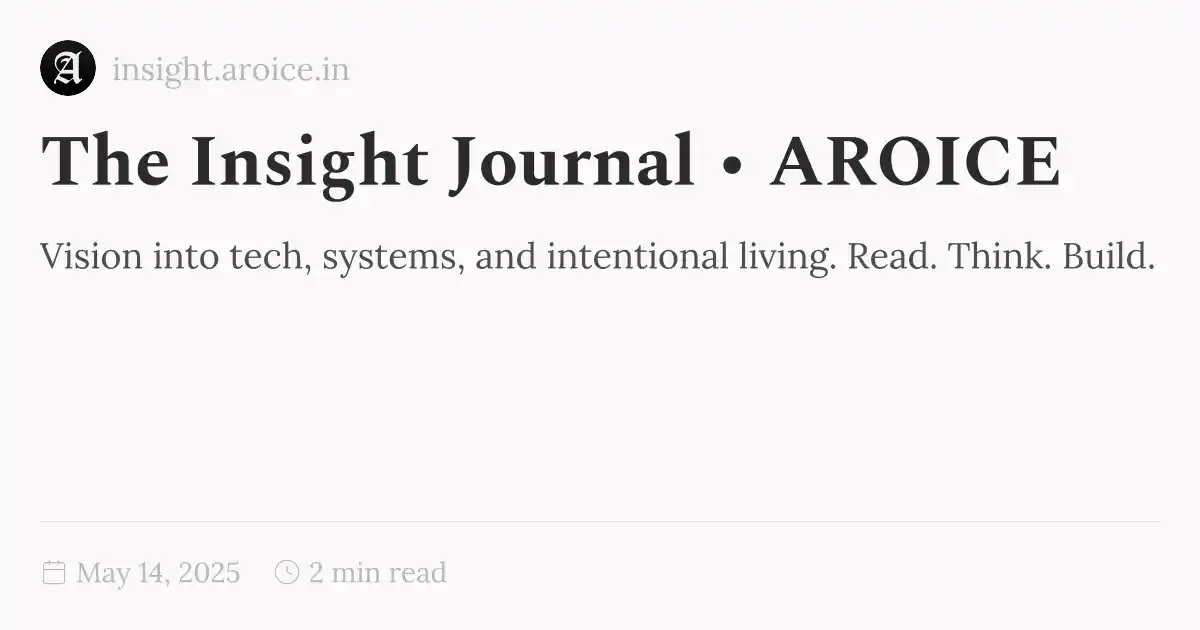
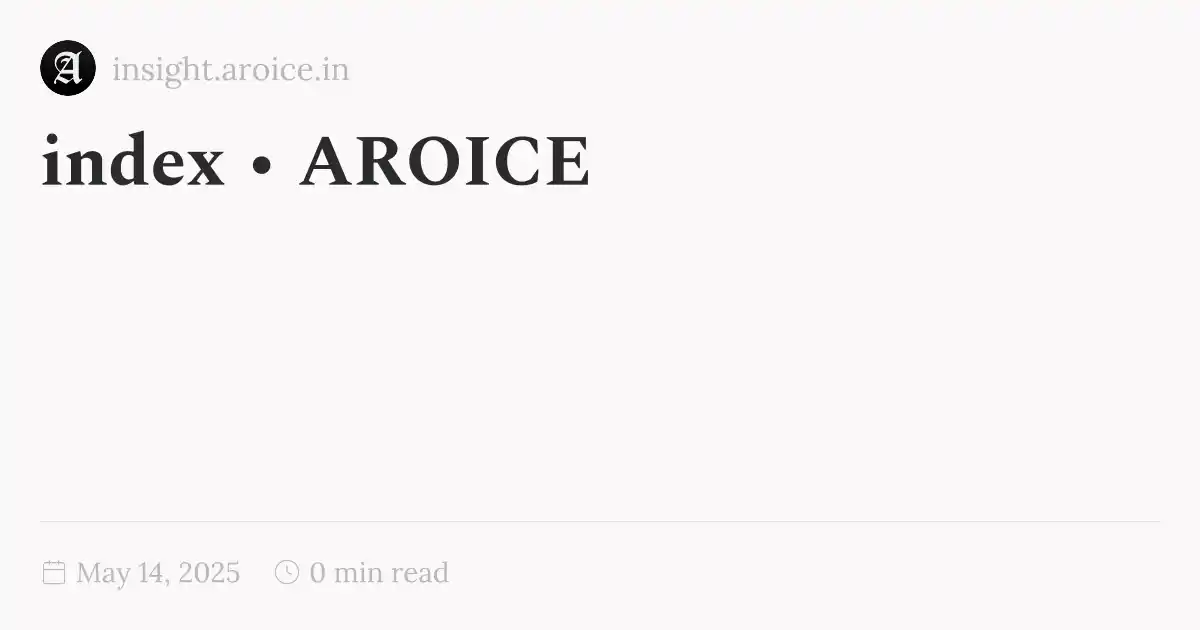
Quartz sync: May 14, 2025, 5:05 PM

diff --git a/public/index.html b/public/index.html
@@ -1,5 +1,5 @@
 <!DOCTYPE html>
-<html lang="en"><head><title>The Insight Journal • AROICE</title><meta charset="utf-8"/><link rel="preconnect" href="https://fonts.googleapis.com"/><link rel="preconnect" href="https://fonts.gstatic.com"/><link rel="stylesheet" href="https://fonts.googleapis.com/css2?family=Spectral:wght@400;700&amp;family=Lora:ital,wght@0,400;0,600;1,400;1,600&amp;family=Fira Code:wght@400;600&amp;display=swap"/><link rel="preconnect" href="https://cdnjs.cloudflare.com" crossorigin="anonymous"/><meta name="viewport" content="width=device-width, initial-scale=1.0"/><meta name="og:site_name" content="INSIGHT"/><meta property="og:title" content="The Insight Journal • AROICE"/><meta property="og:type" content="website"/><meta name="twitter:card" content="summary_large_image"/><meta name="twitter:title" content="The Insight Journal • AROICE"/><meta name="twitter:description" content="Vision into tech, systems, and intentional living. Read. Think. Build."/><meta property="og:description" content="Vision into tech, systems, and intentional living. Read. Think. Build."/><meta property="og:image:alt" content="Vision into tech, systems, and intentional living. Read. Think. Build."/><meta property="twitter:domain" content="insight.aroice.in"/><meta property="og:url" content="https://insight.aroice.in/index"/><meta property="twitter:url" content="https://insight.aroice.in/index"/><link rel="icon" href="./static/icon.png"/><meta name="description" content="Vision into tech, systems, and intentional living. Read. Think. Build."/><meta name="generator" content="Quartz"/><link href="./index.css" rel="stylesheet" type="text/css" spa-preserve/><style>.expand-button {
+<html lang="en"><head><title>index • AROICE</title><meta charset="utf-8"/><link rel="preconnect" href="https://fonts.googleapis.com"/><link rel="preconnect" href="https://fonts.gstatic.com"/><link rel="stylesheet" href="https://fonts.googleapis.com/css2?family=Spectral:wght@400;700&amp;family=Lora:ital,wght@0,400;0,600;1,400;1,600&amp;family=Fira Code:wght@400;600&amp;display=swap"/><link rel="preconnect" href="https://cdnjs.cloudflare.com" crossorigin="anonymous"/><meta name="viewport" content="width=device-width, initial-scale=1.0"/><meta name="og:site_name" content="INSIGHT"/><meta property="og:title" content="index • AROICE"/><meta property="og:type" content="website"/><meta name="twitter:card" content="summary_large_image"/><meta name="twitter:title" content="index • AROICE"/><meta name="twitter:description" content/><meta property="og:description" content/><meta property="og:image:alt" content/><meta property="twitter:domain" content="insight.aroice.in"/><meta property="og:url" content="https://insight.aroice.in/index"/><meta property="twitter:url" content="https://insight.aroice.in/index"/><link rel="icon" href="./static/icon.png"/><meta name="description" content/><meta name="generator" content="Quartz"/><link href="./index.css" rel="stylesheet" type="text/css" spa-preserve/><style>.expand-button {
   position: absolute;
   display: flex;
   float: right;
@@ -116,88 +116,7 @@ pre:hover > .expand-button {
   padding: 0 12px;
   font-size: 14px;
 }
[1 lines of base64/hex data omitted]
-
-
-
-<p><em>Built for those who seek clarity in a chaotic world.</em></p>
-<p>Explore systems, tools, and mental models to build and live with intent.</p>
-<pre class="poetry">by Aryan Techie :)</pre>
-<hr/>
-
-<blockquote class="callout feat" data-callout="feat">
-<div class="callout-title">
-                  <div class="callout-icon"></div>
-                  <div class="callout-title-inner"><p>Featured Post </p></div>
-                  
-                </div>
-<div class="callout-content">
-<h2 id="get-epic-shit-done"><a href="./posts/GET-EPIC-SHIT-DONE!" class="internal alias" data-slug="posts/GET-EPIC-SHIT-DONE!">Get Epic Shit Done!</a><a role="anchor" aria-hidden="true" tabindex="-1" data-no-popover="true" href="#get-epic-shit-done" class="internal"><svg width="18" height="18" viewBox="0 0 24 24" fill="none" stroke="currentColor" stroke-width="2" stroke-linecap="round" stroke-linejoin="round"><path d="M10 13a5 5 0 0 0 7.54.54l3-3a5 5 0 0 0-7.07-7.07l-1.72 1.71"></path><path d="M14 11a5 5 0 0 0-7.54-.54l-3 3a5 5 0 0 0 7.07 7.07l1.71-1.71"></path></svg></a></h2>
-<p><img src="./Pasted-image-20241103124931.png" width="150" height="auto" alt/></p>
-<p><a href="./posts/GET-EPIC-SHIT-DONE!" class="internal alias" data-slug="posts/GET-EPIC-SHIT-DONE!">Read more →</a></p>
-</div>
-</blockquote>
-
-
-<blockquote class="callout recent" data-callout="recent">
-<div class="callout-title">
-                  <div class="callout-icon"></div>
-                  <div class="callout-title-inner"><p>Recent Posts </p></div>
-                  
-                </div>
-<div class="callout-content">
-<ul>
-<li><a href="./posts/Power-of-Silence" class="internal alias" data-slug="posts/Power-of-Silence">Power of Silence</a></li>
-<li><a href="./posts/GET-EPIC-SHIT-DONE!" class="internal alias" data-slug="posts/GET-EPIC-SHIT-DONE!">GET EPIC SHIT DONE!</a></li>
-<li><a href="./posts/The-Hidden-Power-of-Stillness" class="internal alias" data-slug="posts/The-Hidden-Power-of-Stillness">The Hidden Power of Stillness</a></li>
-<li><a href="./posts/The-Power-of-Systems-Thinking" class="internal alias" data-slug="posts/The-Power-of-Systems-Thinking">The Power of Systems Thinking</a></li>
-</ul>
-</div>
-</blockquote>
-
-<hr/>
-<h2 id="-what-is-insight">🛠 What is Insight?<a role="anchor" aria-hidden="true" tabindex="-1" data-no-popover="true" href="#-what-is-insight" class="internal"><svg width="18" height="18" viewBox="0 0 24 24" fill="none" stroke="currentColor" stroke-width="2" stroke-linecap="round" stroke-linejoin="round"><path d="M10 13a5 5 0 0 0 7.54.54l3-3a5 5 0 0 0-7.07-7.07l-1.72 1.71"></path><path d="M14 11a5 5 0 0 0-7.54-.54l-3 3a5 5 0 0 0 7.07 7.07l1.71-1.71"></path></svg></a></h2>
-<p>Insight is a space for those who seek clarity - <br/> through new ideas, tools, and perspectives.</p>
-<p>It’s where I share what I learn, what shifts my thinking, and what I believe is worth your time.</p>
-<p>I’m here to contribute - to leave behind something meaningful. <br/>
-Because time is limited. Noise is endless.</p>
-<p>This is the place where attention meets intention.</p>
-<blockquote class="callout quote" data-callout="quote">
-<div class="callout-title">
-                  <div class="callout-icon"></div>
-                  <div class="callout-title-inner"><p>Quote</p></div>
-                  
-                </div>
-<div class="callout-content">
-<p>“Clarity is the result of conscious subtraction.” — Insight Philosophy</p>
-</div>
-</blockquote>
-<hr/>
-<h2 id="-lens---explore-by-topics">🔍 Lens - Explore by Topics<a role="anchor" aria-hidden="true" tabindex="-1" data-no-popover="true" href="#-lens---explore-by-topics" class="internal"><svg width="18" height="18" viewBox="0 0 24 24" fill="none" stroke="currentColor" stroke-width="2" stroke-linecap="round" stroke-linejoin="round"><path d="M10 13a5 5 0 0 0 7.54.54l3-3a5 5 0 0 0-7.07-7.07l-1.72 1.71"></path><path d="M14 11a5 5 0 0 0-7.54-.54l-3 3a5 5 0 0 0 7.07 7.07l1.71-1.71"></path></svg></a></h2>
-<ul>
-<li>✒ <strong>Catalyst</strong> – Philosophy &amp; Questions that matter.</li>
-<li>🧠 <strong>Cortex</strong> – Thinking tools, mental models towards clarity.</li>
-<li>🧭 <strong>Compass</strong> – Systems and workflows to navigate with purpose.</li>
-<li>💻 <strong>Codex</strong> – Notes on code, tools &amp; tech. From tools to workflows.</li>
-<li>🗃 <strong><a href="./posts" class="internal alias" data-slug="posts">Catalogue</a></strong> - View All Posts</li>
-<li>💙 <strong><a href="./About-Me" class="internal alias" data-slug="About-Me">About Me</a></strong> – Who am I.</li>
-</ul>
-<hr/>
-<h2 id="-subscribe">📬 Subscribe<a role="anchor" aria-hidden="true" tabindex="-1" data-no-popover="true" href="#-subscribe" class="internal"><svg width="18" height="18" viewBox="0 0 24 24" fill="none" stroke="currentColor" stroke-width="2" stroke-linecap="round" stroke-linejoin="round"><path d="M10 13a5 5 0 0 0 7.54.54l3-3a5 5 0 0 0-7.07-7.07l-1.72 1.71"></path><path d="M14 11a5 5 0 0 0-7.54-.54l-3 3a5 5 0 0 0 7.07 7.07l1.71-1.71"></path></svg></a></h2>
-<p>Get new essays delivered straight to your inbox.<br/>
-No spam, no noise. Just insight.</p>
-<p><a href="https://blogs.aroice.in" class="external">Subscribe →<svg aria-hidden="true" class="external-icon" style="max-width:0.8em;max-height:0.8em;" viewBox="0 0 512 512"><path d="M320 0H288V64h32 82.7L201.4 265.4 178.7 288 224 333.3l22.6-22.6L448 109.3V192v32h64V192 32 0H480 320zM32 32H0V64 480v32H32 456h32V480 352 320H424v32 96H64V96h96 32V32H160 32z"></path></svg></a> (yup, it’s FREE!)</p>
-<hr/>
-<h2 id="-portals---beyond-insight">🔮 Portals - beyond Insight<a role="anchor" aria-hidden="true" tabindex="-1" data-no-popover="true" href="#-portals---beyond-insight" class="internal"><svg width="18" height="18" viewBox="0 0 24 24" fill="none" stroke="currentColor" stroke-width="2" stroke-linecap="round" stroke-linejoin="round"><path d="M10 13a5 5 0 0 0 7.54.54l3-3a5 5 0 0 0-7.07-7.07l-1.72 1.71"></path><path d="M14 11a5 5 0 0 0-7.54-.54l-3 3a5 5 0 0 0 7.07 7.07l1.71-1.71"></path></svg></a></h2>
-<ul>
-<li>🌐 Home Site: <a href="https://aroice.in" class="external">aroice.in<svg aria-hidden="true" class="external-icon" style="max-width:0.8em;max-height:0.8em;" viewBox="0 0 512 512"><path d="M320 0H288V64h32 82.7L201.4 265.4 178.7 288 224 333.3l22.6-22.6L448 109.3V192v32h64V192 32 0H480 320zM32 32H0V64 480v32H32 456h32V480 352 320H424v32 96H64V96h96 32V32H160 32z"></path></svg></a></li>
-<li>🎬 YouTube: <a href="https://youtube.com/@Aroice" class="external">@Aroice<svg aria-hidden="true" class="external-icon" style="max-width:0.8em;max-height:0.8em;" viewBox="0 0 512 512"><path d="M320 0H288V64h32 82.7L201.4 265.4 178.7 288 224 333.3l22.6-22.6L448 109.3V192v32h64V192 32 0H480 320zM32 32H0V64 480v32H32 456h32V480 352 320H424v32 96H64V96h96 32V32H160 32z"></path></svg></a></li>
-<li>🐦 𝕏 (Twitter): <a href="https://x.com/realaroice" class="external">@realaroice<svg aria-hidden="true" class="external-icon" style="max-width:0.8em;max-height:0.8em;" viewBox="0 0 512 512"><path d="M320 0H288V64h32 82.7L201.4 265.4 178.7 288 224 333.3l22.6-22.6L448 109.3V192v32h64V192 32 0H480 320zM32 32H0V64 480v32H32 456h32V480 352 320H424v32 96H64V96h96 32V32H160 32z"></path></svg></a></li>
-<li>💼 LinkedIn: <a href="https://x.com/realaroice" class="external">@realaroice<svg aria-hidden="true" class="external-icon" style="max-width:0.8em;max-height:0.8em;" viewBox="0 0 512 512"><path d="M320 0H288V64h32 82.7L201.4 265.4 178.7 288 224 333.3l22.6-22.6L448 109.3V192v32h64V192 32 0H480 320zM32 32H0V64 480v32H32 456h32V480 352 320H424v32 96H64V96h96 32V32H160 32z"></path></svg></a></li>
-<li>💌 Mail: <a href="https://x.com/realaroice" class="external">@realaroice<svg aria-hidden="true" class="external-icon" style="max-width:0.8em;max-height:0.8em;" viewBox="0 0 512 512"><path d="M320 0H288V64h32 82.7L201.4 265.4 178.7 288 224 333.3l22.6-22.6L448 109.3V192v32h64V192 32 0H480 320zM32 32H0V64 480v32H32 456h32V480 352 320H424v32 96H64V96h96 32V32H160 32z"></path></svg></a></li>
-</ul>
-<hr/>
-<pre class="poetry">Peace.</pre></article><hr/><div class="page-footer"></div></div><div class="right sidebar"><div class="graph"><h3>Graph View</h3><div class="graph-outer"><div class="graph-container" data-cfg="{&quot;drag&quot;:true,&quot;zoom&quot;:true,&quot;depth&quot;:1,&quot;scale&quot;:1.1,&quot;repelForce&quot;:0.5,&quot;centerForce&quot;:0.3,&quot;linkDistance&quot;:30,&quot;fontSize&quot;:0.6,&quot;opacityScale&quot;:1,&quot;showTags&quot;:true,&quot;removeTags&quot;:[],&quot;focusOnHover&quot;:false,&quot;enableRadial&quot;:false}"></div><button class="global-graph-icon" aria-label="Global Graph"><svg version="1.1" xmlns="http://www.w3.org/2000/svg" xmlns:xlink="http://www.w3.org/1999/xlink" x="0px" y="0px" viewBox="0 0 55 55" fill="currentColor" xml:space="preserve"><path d="M49,0c-3.309,0-6,2.691-6,6c0,1.035,0.263,2.009,0.726,2.86l-9.829,9.829C32.542,17.634,30.846,17,29,17
[1 lines of base64/hex data omitted]
                 s-3.542,0.634-4.898,1.688l-7.669-7.669C16.785,10.424,17,9.74,17,9c0-2.206-1.794-4-4-4S9,6.794,9,9s1.794,4,4,4
                 c0.74,0,1.424-0.215,2.019-0.567l7.669,7.669C21.634,21.458,21,23.154,21,25s0.634,3.542,1.688,4.897L10.024,42.562
                 C8.958,41.595,7.549,41,6,41c-3.309,0-6,2.691-6,6s2.691,6,6,6s6-2.691,6-6c0-1.035-0.263-2.009-0.726-2.86l12.829-12.829
@@ -207,7 +126,7 @@ No spam, no noise. Just insight.</p>
                 C46.042,11.405,47.451,12,49,12c3.309,0,6-2.691,6-6S52.309,0,49,0z M11,9c0-1.103,0.897-2,2-2s2,0.897,2,2s-0.897,2-2,2
                 S11,10.103,11,9z M6,51c-2.206,0-4-1.794-4-4s1.794-4,4-4s4,1.794,4,4S8.206,51,6,51z M33,49c0,2.206-1.794,4-4,4s-4-1.794-4-4
                 s1.794-4,4-4S33,46.794,33,49z M29,31c-3.309,0-6-2.691-6-6s2.691-6,6-6s6,2.691,6,6S32.309,31,29,31z M47,41c0,1.103-0.897,2-2,2
-                s-2-0.897-2-2s0.897-2,2-2S47,39.897,47,41z M49,10c-2.206,0-4-1.794-4-4s1.794-4,4-4s4,1.794,4,4S51.206,10,49,10z"></path></svg></button></div><div class="global-graph-outer"><div class="global-graph-container" data-cfg="{&quot;drag&quot;:true,&quot;zoom&quot;:true,&quot;depth&quot;:-1,&quot;scale&quot;:0.9,&quot;repelForce&quot;:0.5,&quot;centerForce&quot;:0.2,&quot;linkDistance&quot;:30,&quot;fontSize&quot;:0.6,&quot;opacityScale&quot;:1,&quot;showTags&quot;:true,&quot;removeTags&quot;:[],&quot;focusOnHover&quot;:true,&quot;enableRadial&quot;:true}"></div></div></div><div class="toc desktop-only"><button type="button" class="collapsed toc-header" aria-controls="toc-content" aria-expanded="false"><h3>Table of Contents</h3><svg xmlns="http://www.w3.org/2000/svg" width="24" height="24" viewBox="0 0 24 24" fill="none" stroke="currentColor" stroke-width="2" stroke-linecap="round" stroke-linejoin="round" class="fold"><polyline points="6 9 12 15 18 9"></polyline></svg></button><ul class="collapsed toc-content overflow" id="list-1"><li class="depth-0"><a href="#get-epic-shit-done" data-for="get-epic-shit-done">Get Epic Shit Done!</a></li><li class="depth-0"><a href="#-what-is-insight" data-for="-what-is-insight">🛠 What is Insight?</a></li><li class="depth-0"><a href="#-lens---explore-by-topics" data-for="-lens---explore-by-topics">🔍 Lens - Explore by Topics</a></li><li class="depth-0"><a href="#-subscribe" data-for="-subscribe">📬 Subscribe</a></li><li class="depth-0"><a href="#-portals---beyond-insight" data-for="-portals---beyond-insight">🔮 Portals - beyond Insight</a></li><li class="overflow-end"></li></ul></div><div class="backlinks"><h3>Backlinks</h3><ul id="list-2" class="overflow"><li><a href="./Posts/Power-of-Silence" class="internal">Power of Silence</a></li><li class="overflow-end"></li></ul></div></div><footer class><p>Made with ❤ by <a href="https://aryan.aroice.in">Aryan Techie</a> © 2025 <a href="https://aroice.in" target="_blank">AROICE</a></p><ul><li><a href="https://x.com/aryantechie">•  X</a></li><li><a href="https://youtube.com/@aroice">•  YouTube</a></li><li><a href="https://instagram.com/aryantechie">•  Instagram</a></li></ul></footer></div></div></body><script type="application/javascript">function o(){let t=this.parentElement;t.classList.toggle("is-collapsed");let e=t.classList.contains("is-collapsed")?this.scrollHeight:t.scrollHeight;t.style.maxHeight=e+"px";let c=t,l=t.parentElement;for(;l;){if(!l.classList.contains("callout"))return;let i=l.classList.contains("is-collapsed")?l.scrollHeight:l.scrollHeight+c.scrollHeight;l.style.maxHeight=i+"px",c=l,l=l.parentElement}}function n(){let t=document.getElementsByClassName("callout is-collapsible");for(let s of t){let e=s.firstElementChild;if(!e)continue;e.addEventListener("click",o),window.addCleanup(()=>e.removeEventListener("click",o));let l=s.classList.contains("is-collapsed")?e.scrollHeight:s.scrollHeight;s.style.maxHeight=l+"px"}}document.addEventListener("nav",n);
+                s-2-0.897-2-2s0.897-2,2-2S47,39.897,47,41z M49,10c-2.206,0-4-1.794-4-4s1.794-4,4-4s4,1.794,4,4S51.206,10,49,10z"></path></svg></button></div><div class="global-graph-outer"><div class="global-graph-container" data-cfg="{&quot;drag&quot;:true,&quot;zoom&quot;:true,&quot;depth&quot;:-1,&quot;scale&quot;:0.9,&quot;repelForce&quot;:0.5,&quot;centerForce&quot;:0.2,&quot;linkDistance&quot;:30,&quot;fontSize&quot;:0.6,&quot;opacityScale&quot;:1,&quot;showTags&quot;:true,&quot;removeTags&quot;:[],&quot;focusOnHover&quot;:true,&quot;enableRadial&quot;:true}"></div></div></div><div class="backlinks"><h3>Backlinks</h3><ul id="list-2" class="overflow"><li><a href="./Posts/Power-of-Silence" class="internal">Power of Silence</a></li><li class="overflow-end"></li></ul></div></div><footer class><p>Made with ❤ by <a href="https://aryan.aroice.in">Aryan Techie</a> © 2025 <a href="https://aroice.in" target="_blank">AROICE</a></p><ul><li><a href="https://x.com/aryantechie">•  X</a></li><li><a href="https://youtube.com/@aroice">•  YouTube</a></li><li><a href="https://instagram.com/aryantechie">•  Instagram</a></li></ul></footer></div></div></body><script type="application/javascript">function o(){let t=this.parentElement;t.classList.toggle("is-collapsed");let e=t.classList.contains("is-collapsed")?this.scrollHeight:t.scrollHeight;t.style.maxHeight=e+"px";let c=t,l=t.parentElement;for(;l;){if(!l.classList.contains("callout"))return;let i=l.classList.contains("is-collapsed")?l.scrollHeight:l.scrollHeight+c.scrollHeight;l.style.maxHeight=i+"px",c=l,l=l.parentElement}}function n(){let t=document.getElementsByClassName("callout is-collapsible");for(let s of t){let e=s.firstElementChild;if(!e)continue;e.addEventListener("click",o),window.addCleanup(()=>e.removeEventListener("click",o));let l=s.classList.contains("is-collapsed")?e.scrollHeight:s.scrollHeight;s.style.maxHeight=l+"px"}}document.addEventListener("nav",n);
 </script><script type="module">function f(i,e){if(!i)return;function r(o){o.target===this&&(o.preventDefault(),o.stopPropagation(),e())}function t(o){o.key.startsWith("Esc")&&(o.preventDefault(),e())}i?.addEventListener("click",r),window.addCleanup(()=>i?.removeEventListener("click",r)),document.addEventListener("keydown",t),window.addCleanup(()=>document.removeEventListener("keydown",t))}function y(i){for(;i.firstChild;)i.removeChild(i.firstChild)}var h=class{constructor(e,r){this.container=e;this.content=r;this.setupEventListeners(),this.setupNavigationControls(),this.resetTransform()}isDragging=!1;startPan={x:0,y:0};currentPan={x:0,y:0};scale=1;MIN_SCALE=.5;MAX_SCALE=3;cleanups=[];setupEventListeners(){let e=this.onMouseDown.bind(this),r=this.onMouseMove.bind(this),t=this.onMouseUp.bind(this),o=this.resetTransform.bind(this);this.container.addEventListener("mousedown",e),document.addEventListener("mousemove",r),document.addEventListener("mouseup",t),window.addEventListener("resize",o),this.cleanups.push(()=>this.container.removeEventListener("mousedown",e),()=>document.removeEventListener("mousemove",r),()=>document.removeEventListener("mouseup",t),()=>window.removeEventListener("resize",o))}cleanup(){for(let e of this.cleanups)e()}setupNavigationControls(){let e=document.createElement("div");e.className="mermaid-controls";let r=this.createButton("+",()=>this.zoom(.1)),t=this.createButton("-",()=>this.zoom(-.1)),o=this.createButton("Reset",()=>this.resetTransform());e.appendChild(t),e.appendChild(o),e.appendChild(r),this.container.appendChild(e)}createButton(e,r){let t=document.createElement("button");return t.textContent=e,t.className="mermaid-control-button",t.addEventListener("click",r),window.addCleanup(()=>t.removeEventListener("click",r)),t}onMouseDown(e){e.button===0&&(this.isDragging=!0,this.startPan={x:e.clientX-this.currentPan.x,y:e.clientY-this.currentPan.y},this.container.style.cursor="grabbing")}onMouseMove(e){this.isDragging&&(e.preventDefault(),this.currentPan={x:e.clientX-this.startPan.x,y:e.clientY-this.startPan.y},this.updateTransform())}onMouseUp(){this.isDragging=!1,this.container.style.cursor="grab"}zoom(e){let r=Math.min(Math.max(this.scale+e,this.MIN_SCALE),this.MAX_SCALE),t=this.content.getBoundingClientRect(),o=t.width/2,n=t.height/2,c=r-this.scale;this.currentPan.x-=o*c,this.currentPan.y-=n*c,this.scale=r,this.updateTransform()}updateTransform(){this.content.style.transform=`translate(${this.currentPan.x}px, ${this.currentPan.y}px) scale(${this.scale})`}resetTransform(){this.scale=1;let e=this.content.querySelector("svg");this.currentPan={x:e.getBoundingClientRect().width/2,y:e.getBoundingClientRect().height/2},this.updateTransform()}},C=["--secondary","--tertiary","--gray","--light","--lightgray","--highlight","--dark","--darkgray","--codeFont"],E;document.addEventListener("nav",async()=>{let e=document.querySelector(".center").querySelectorAll("code.mermaid");if(e.length===0)return;E||=await import("https://cdnjs.cloudflare.com/ajax/libs/mermaid/11.4.0/mermaid.esm.min.mjs");let r=E.default,t=new WeakMap;for(let n of e)t.set(n,n.innerText);async function o(){for(let s of e){s.removeAttribute("data-processed");let a=t.get(s);a&&(s.innerHTML=a)}let n=C.reduce((s,a)=>(s[a]=window.getComputedStyle(document.documentElement).getPropertyValue(a),s),{}),c=document.documentElement.getAttribute("saved-theme")==="dark";r.initialize({startOnLoad:!1,securityLevel:"loose",theme:c?"dark":"base",themeVariables:{fontFamily:n["--codeFont"],primaryColor:n["--light"],primaryTextColor:n["--darkgray"],primaryBorderColor:n["--tertiary"],lineColor:n["--darkgray"],secondaryColor:n["--secondary"],tertiaryColor:n["--tertiary"],clusterBkg:n["--light"],edgeLabelBackground:n["--highlight"]}}),await r.run({nodes:e})}await o(),document.addEventListener("themechange",o),window.addCleanup(()=>document.removeEventListener("themechange",o));for(let n=0;n<e.length;n++){let v=function(){let g=l.querySelector("#mermaid-space"),m=l.querySelector(".mermaid-content");if(!m)return;y(m);let w=c.querySelector("svg").cloneNode(!0);m.appendChild(w),l.classList.add("active"),g.style.cursor="grab",u=new h(g,m)},M=function(){l.classList.remove("active"),u?.cleanup(),u=null},c=e[n],s=c.parentElement,a=s.querySelector(".clipboard-button"),d=s.querySelector(".expand-button"),p=window.getComputedStyle(a),L=a.offsetWidth+parseFloat(p.marginLeft||"0")+parseFloat(p.marginRight||"0");d.style.right=`calc(${L}px + 0.3rem)`,s.prepend(d);let l=s.querySelector("#mermaid-container");if(!l)return;let u=null;d.addEventListener("click",v),f(l,M),window.addCleanup(()=>{u?.cleanup(),d.removeEventListener("click",v)})}});
 </script><script src="https://cdn.jsdelivr.net/npm/katex@0.16.11/dist/contrib/copy-tex.min.js" type="application/javascript"></script><script type="application/javascript">
         const socket = new WebSocket('ws://localhost:3001')

diff --git a/public/posts/GET-EPIC-SHIT-DONE!.html b/public/posts/GET-EPIC-SHIT-DONE!.html
@@ -347,7 +347,7 @@ pre:hover > .expand-button {
 <p>For them, you should get an Engineer, Doctor, or CA degree because that’s what their parents taught them and they will tell you to do the same.</p>
 <p>Now, if you want to become a YouTuber, Blogger, or start a business then first, show them how you gonna do it or better, if one of your friends is running a business then bring him to your home and let your parent ask questions.</p>
 <p>Even after that, if your parent doesn’t agree with your goals then the final step is to ask for time,
-<img src="../Media/dl91fm.png" width="auto" height="auto" alt/>
+<img src="../dl91fm.png" width="auto" height="auto" alt/>
 Told them <em>“Give</em> me 2 years’ time” and let me prove to you that, I will do it, and if after 2 years, I fail then I will do whatever you’re asking me to do.</p>
 <p><strong>the story,</strong></p>
 <p>I started my website when I was doing B.com, I didn’t say anything to my mother about the website till I completed the three years and then my mother asked me, what you will do next, M.com or Job?</p>

diff --git a/content/index.md b/content/index.md
@@ -1,7 +1,7 @@
 ---
 title: The Insight Journal
 description: Vision into tech, systems, and intentional living. Read. Think. Build.
-cover: '"/media/banner.jpg"'
+cover: https://insight.aroice.in/media/banner.jpg
 ---
 <!-- ## %% Welcome %% -->
 
